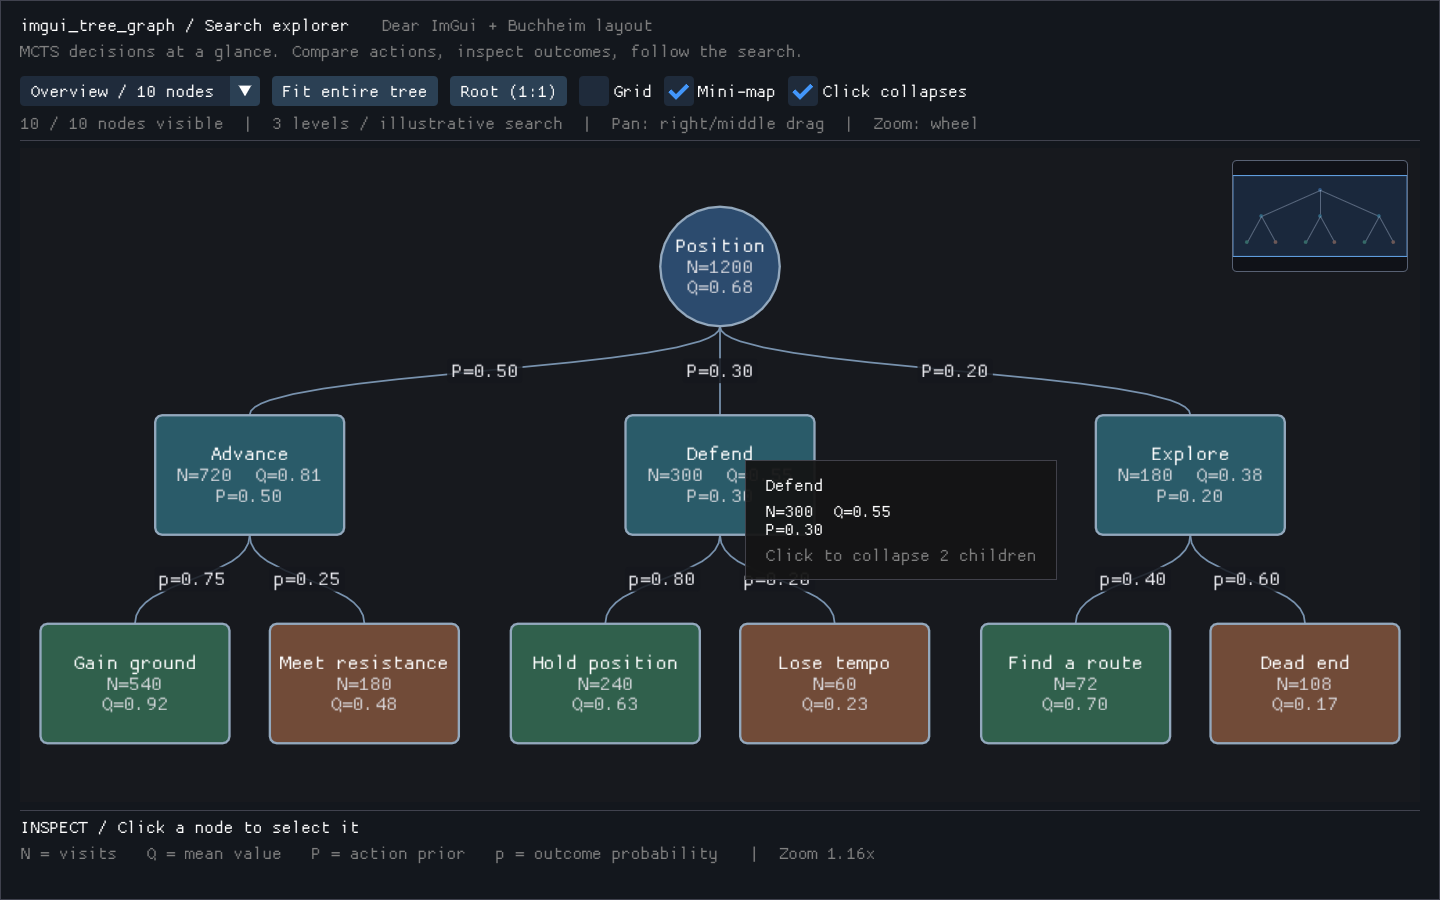
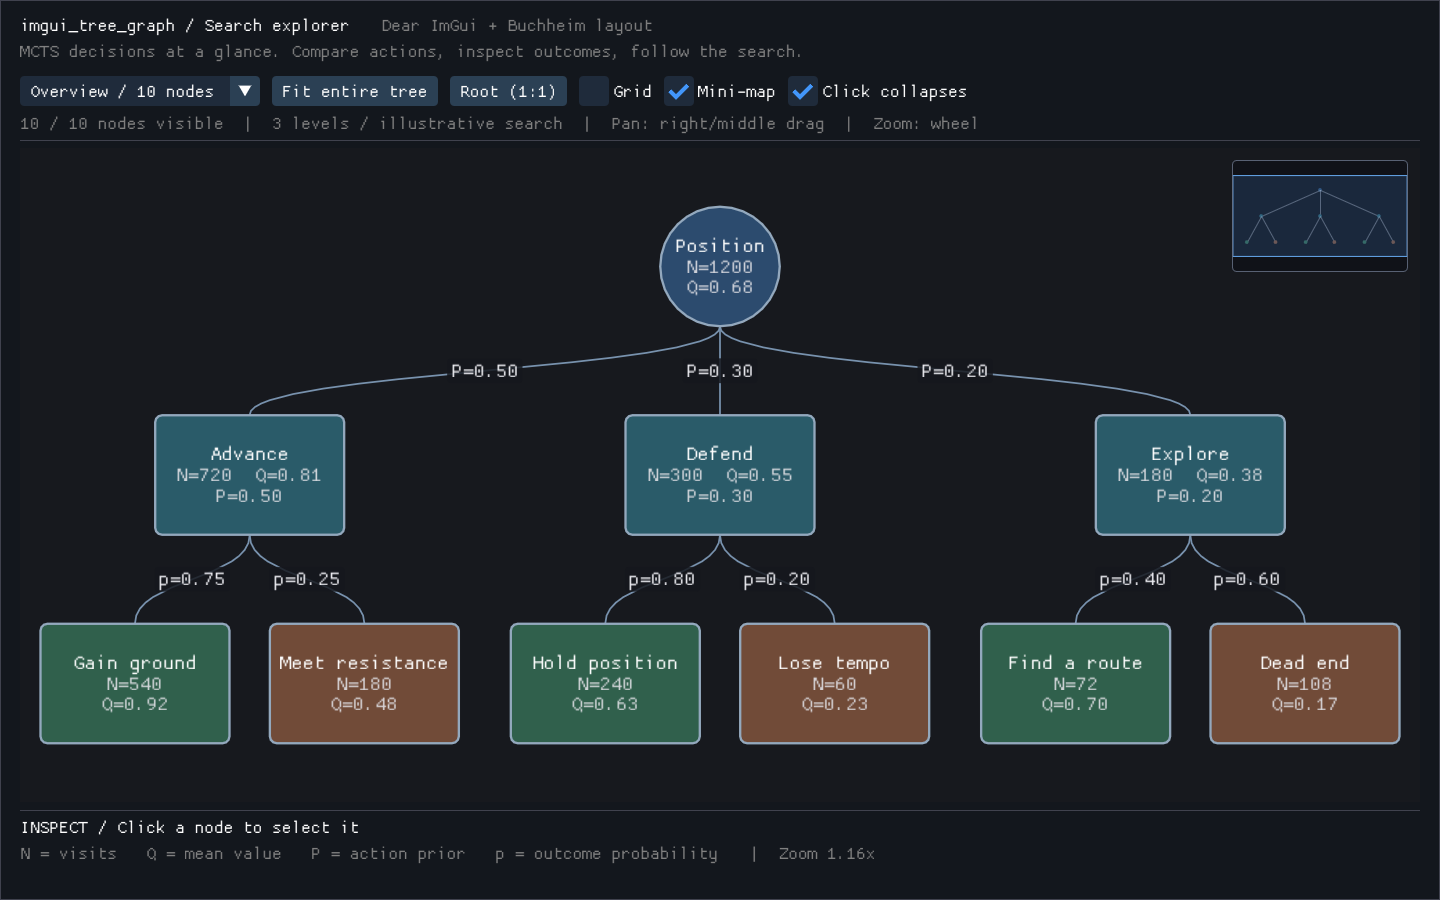
Capture unobstructed tree overview and finalize visual README

Changed region(s): [[0.5, 0.4978, 0.6562, 0.6533], [0.6875, 0.5911, 0.7188, 0.6222]]

diff --git a/README.md b/README.md
@@ -192,12 +192,13 @@ la vue complète (ajoutez `--collapse-first` pour l’autre vue) :
 
 ```sh
 xvfb-run -a -s '-screen 0 1440x900x24' sh -c '
-  xdotool mousemove 1439 899
   LIBGL_ALWAYS_SOFTWARE=1 ./build/imgui_tree_graph_demo --scene overview --view fit &
   demo=$!
   trap "kill $demo 2>/dev/null || true" EXIT
   sleep 8
   kill -0 "$demo" || exit 1
+  xdotool mousemove --sync 1439 899
+  sleep 1
   import -window root docs/images/imgui-tree-graph-demo.png
 '
 ```
